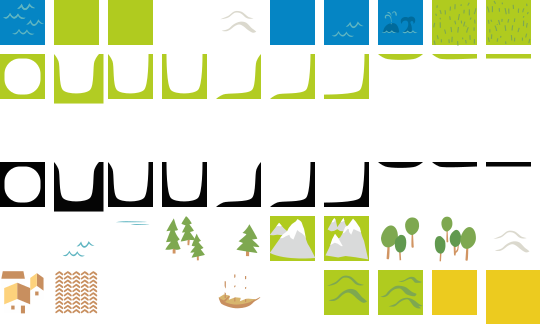
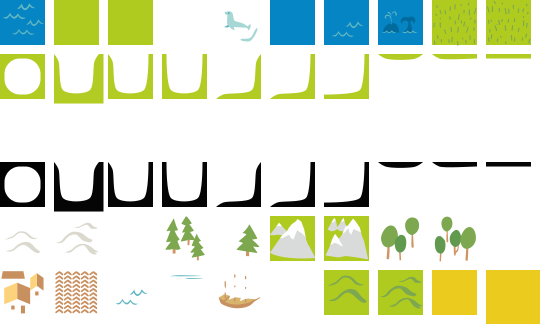
arctic and tundra was improved

diff --git a/microcol-game/src/main/java/org/microcol/gui/image/BackgroundImageLoader.java b/microcol-game/src/main/java/org/microcol/gui/image/BackgroundImageLoader.java
@@ -74,8 +74,10 @@ public class BackgroundImageLoader implements ImageLoader {
 		imageProvider.registerImage(ImageProvider.IMG_TILE_OCEAN_2, imageProvider.getImage("type60"));
 		imageProvider.registerImage(ImageProvider.IMG_TILE_OCEAN_3, imageProvider.getImage("type70"));
 		imageProvider.registerImage(ImageProvider.IMG_TILE_GRASSLAND, imageProvider.getImage("type10"));
-		imageProvider.registerImage(ImageProvider.IMG_TILE_TUNDRA, imageProvider.getImage("type30"));
-		imageProvider.registerImage(ImageProvider.IMG_TILE_ARCTIC, imageProvider.getImage("type40"));
+		imageProvider.registerImage(ImageProvider.IMG_TILE_TUNDRA_1, imageProvider.getImage("type30"));
+		imageProvider.registerImage(ImageProvider.IMG_TILE_TUNDRA_2, imageProvider.getImage("type40"));
+		imageProvider.registerImage(ImageProvider.IMG_TILE_ARCTIC_1, imageProvider.getImage("type04"));
+		imageProvider.registerImage(ImageProvider.IMG_TILE_ARCTIC_2, imageProvider.getImage("type14"));
 		imageProvider.registerImage(ImageProvider.IMG_TILE_HIGH_SEA, imageProvider.getImage("type00"));
 		imageProvider.registerImage(ImageProvider.IMG_UNIT_SHIP_GALEON, imageProvider.getImage("type45"));
 		imageProvider.registerImage(ImageProvider.IMG_TILE_TOWN, imageProvider.getImage("type05"));

diff --git a/microcol-game/src/main/java/org/microcol/gui/image/ImageProvider.java b/microcol-game/src/main/java/org/microcol/gui/image/ImageProvider.java
@@ -54,9 +54,13 @@ public class ImageProvider {
 
 	public static final String IMG_TILE_OCEAN_3 = "tile-ocean-3.png";
 
-	public static final String IMG_TILE_TUNDRA = "tile-tundra.png";
+	public static final String IMG_TILE_TUNDRA_1 = "tile-tundra-1.png";
 
-	public static final String IMG_TILE_ARCTIC = "tile-arctic.png";
+	public static final String IMG_TILE_TUNDRA_2 = "tile-tundra-2.png";
+	
+	public static final String IMG_TILE_ARCTIC_1 = "tile-arctic-1.png";
+
+	public static final String IMG_TILE_ARCTIC_2 = "tile-arctic-2.png";
 
 	public static final String IMG_TILE_HIGH_SEA = "tile-high-sea.png";
 
@@ -150,8 +154,8 @@ public class ImageProvider {
 		terrainMap = ImmutableMap.<TerrainType, Image>builder()
 				.put(TerrainType.GRASSLAND, getImage(IMG_TILE_GRASSLAND))
 				.put(TerrainType.OCEAN, getImage(IMG_TILE_OCEAN_1))
-				.put(TerrainType.TUNDRA, getImage(IMG_TILE_TUNDRA))
-				.put(TerrainType.ARCTIC, getImage(IMG_TILE_ARCTIC))
+				.put(TerrainType.TUNDRA, getImage(IMG_TILE_TUNDRA_1))
+				.put(TerrainType.ARCTIC, getImage(IMG_TILE_ARCTIC_1))
 				.put(TerrainType.HIGH_SEA, getImage(IMG_TILE_HIGH_SEA))
 				.build();
 		

diff --git a/microcol-game/src/main/java/org/microcol/gui/image/ImageRandomProvider.java b/microcol-game/src/main/java/org/microcol/gui/image/ImageRandomProvider.java
@@ -49,6 +49,16 @@ public class ImageRandomProvider {
 			return rnd % 2 == 0 ? imageProvider.getImage(ImageProvider.IMG_TILE_PRAIRIE_1)
 					: imageProvider.getImage(ImageProvider.IMG_TILE_PRAIRIE_2);
 		}
+		if (TerrainType.ARCTIC.equals(terrainType)) {
+			final Integer rnd = mapRandoms.getRandomAt(location);
+			return rnd % 2 == 0 ? imageProvider.getImage(ImageProvider.IMG_TILE_ARCTIC_2)
+					: imageProvider.getImage(ImageProvider.IMG_TILE_ARCTIC_1);
+		}
+		if (TerrainType.TUNDRA.equals(terrainType)) {
+			final Integer rnd = mapRandoms.getRandomAt(location);
+			return rnd % 7 == 0 ? imageProvider.getImage(ImageProvider.IMG_TILE_TUNDRA_2)
+					: imageProvider.getImage(ImageProvider.IMG_TILE_TUNDRA_1);
+		}
 		return null;
 	}
 
